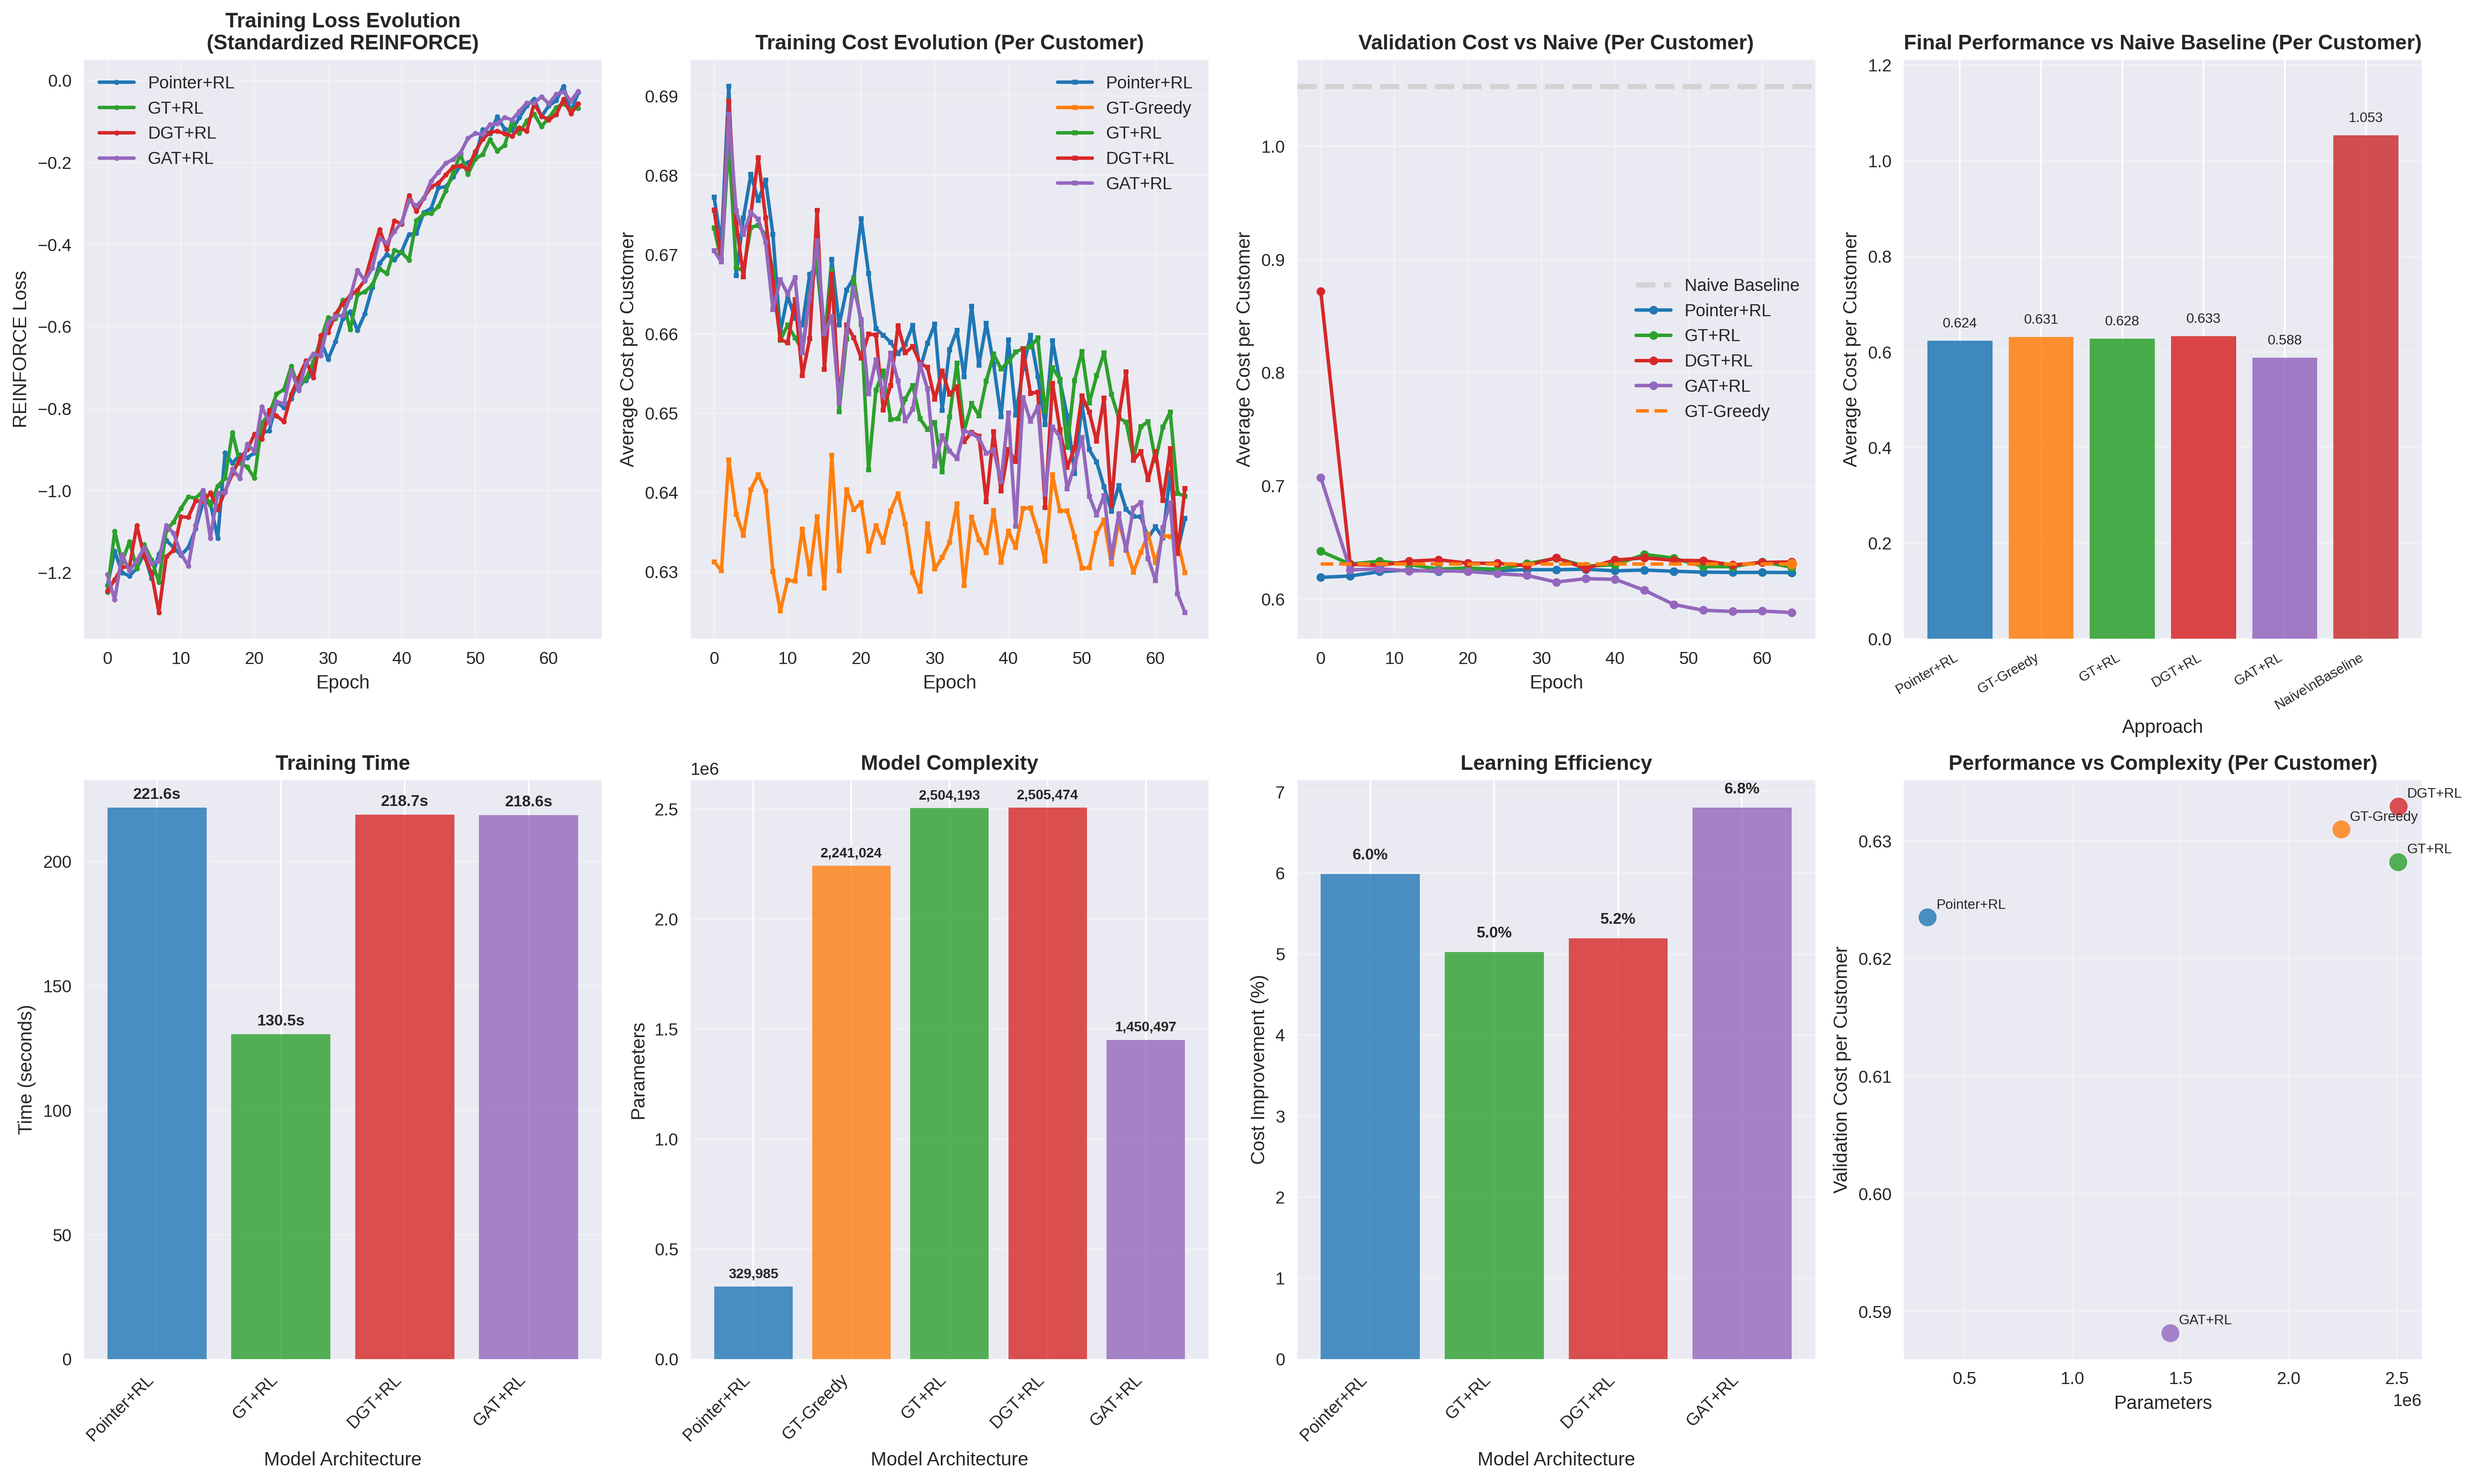
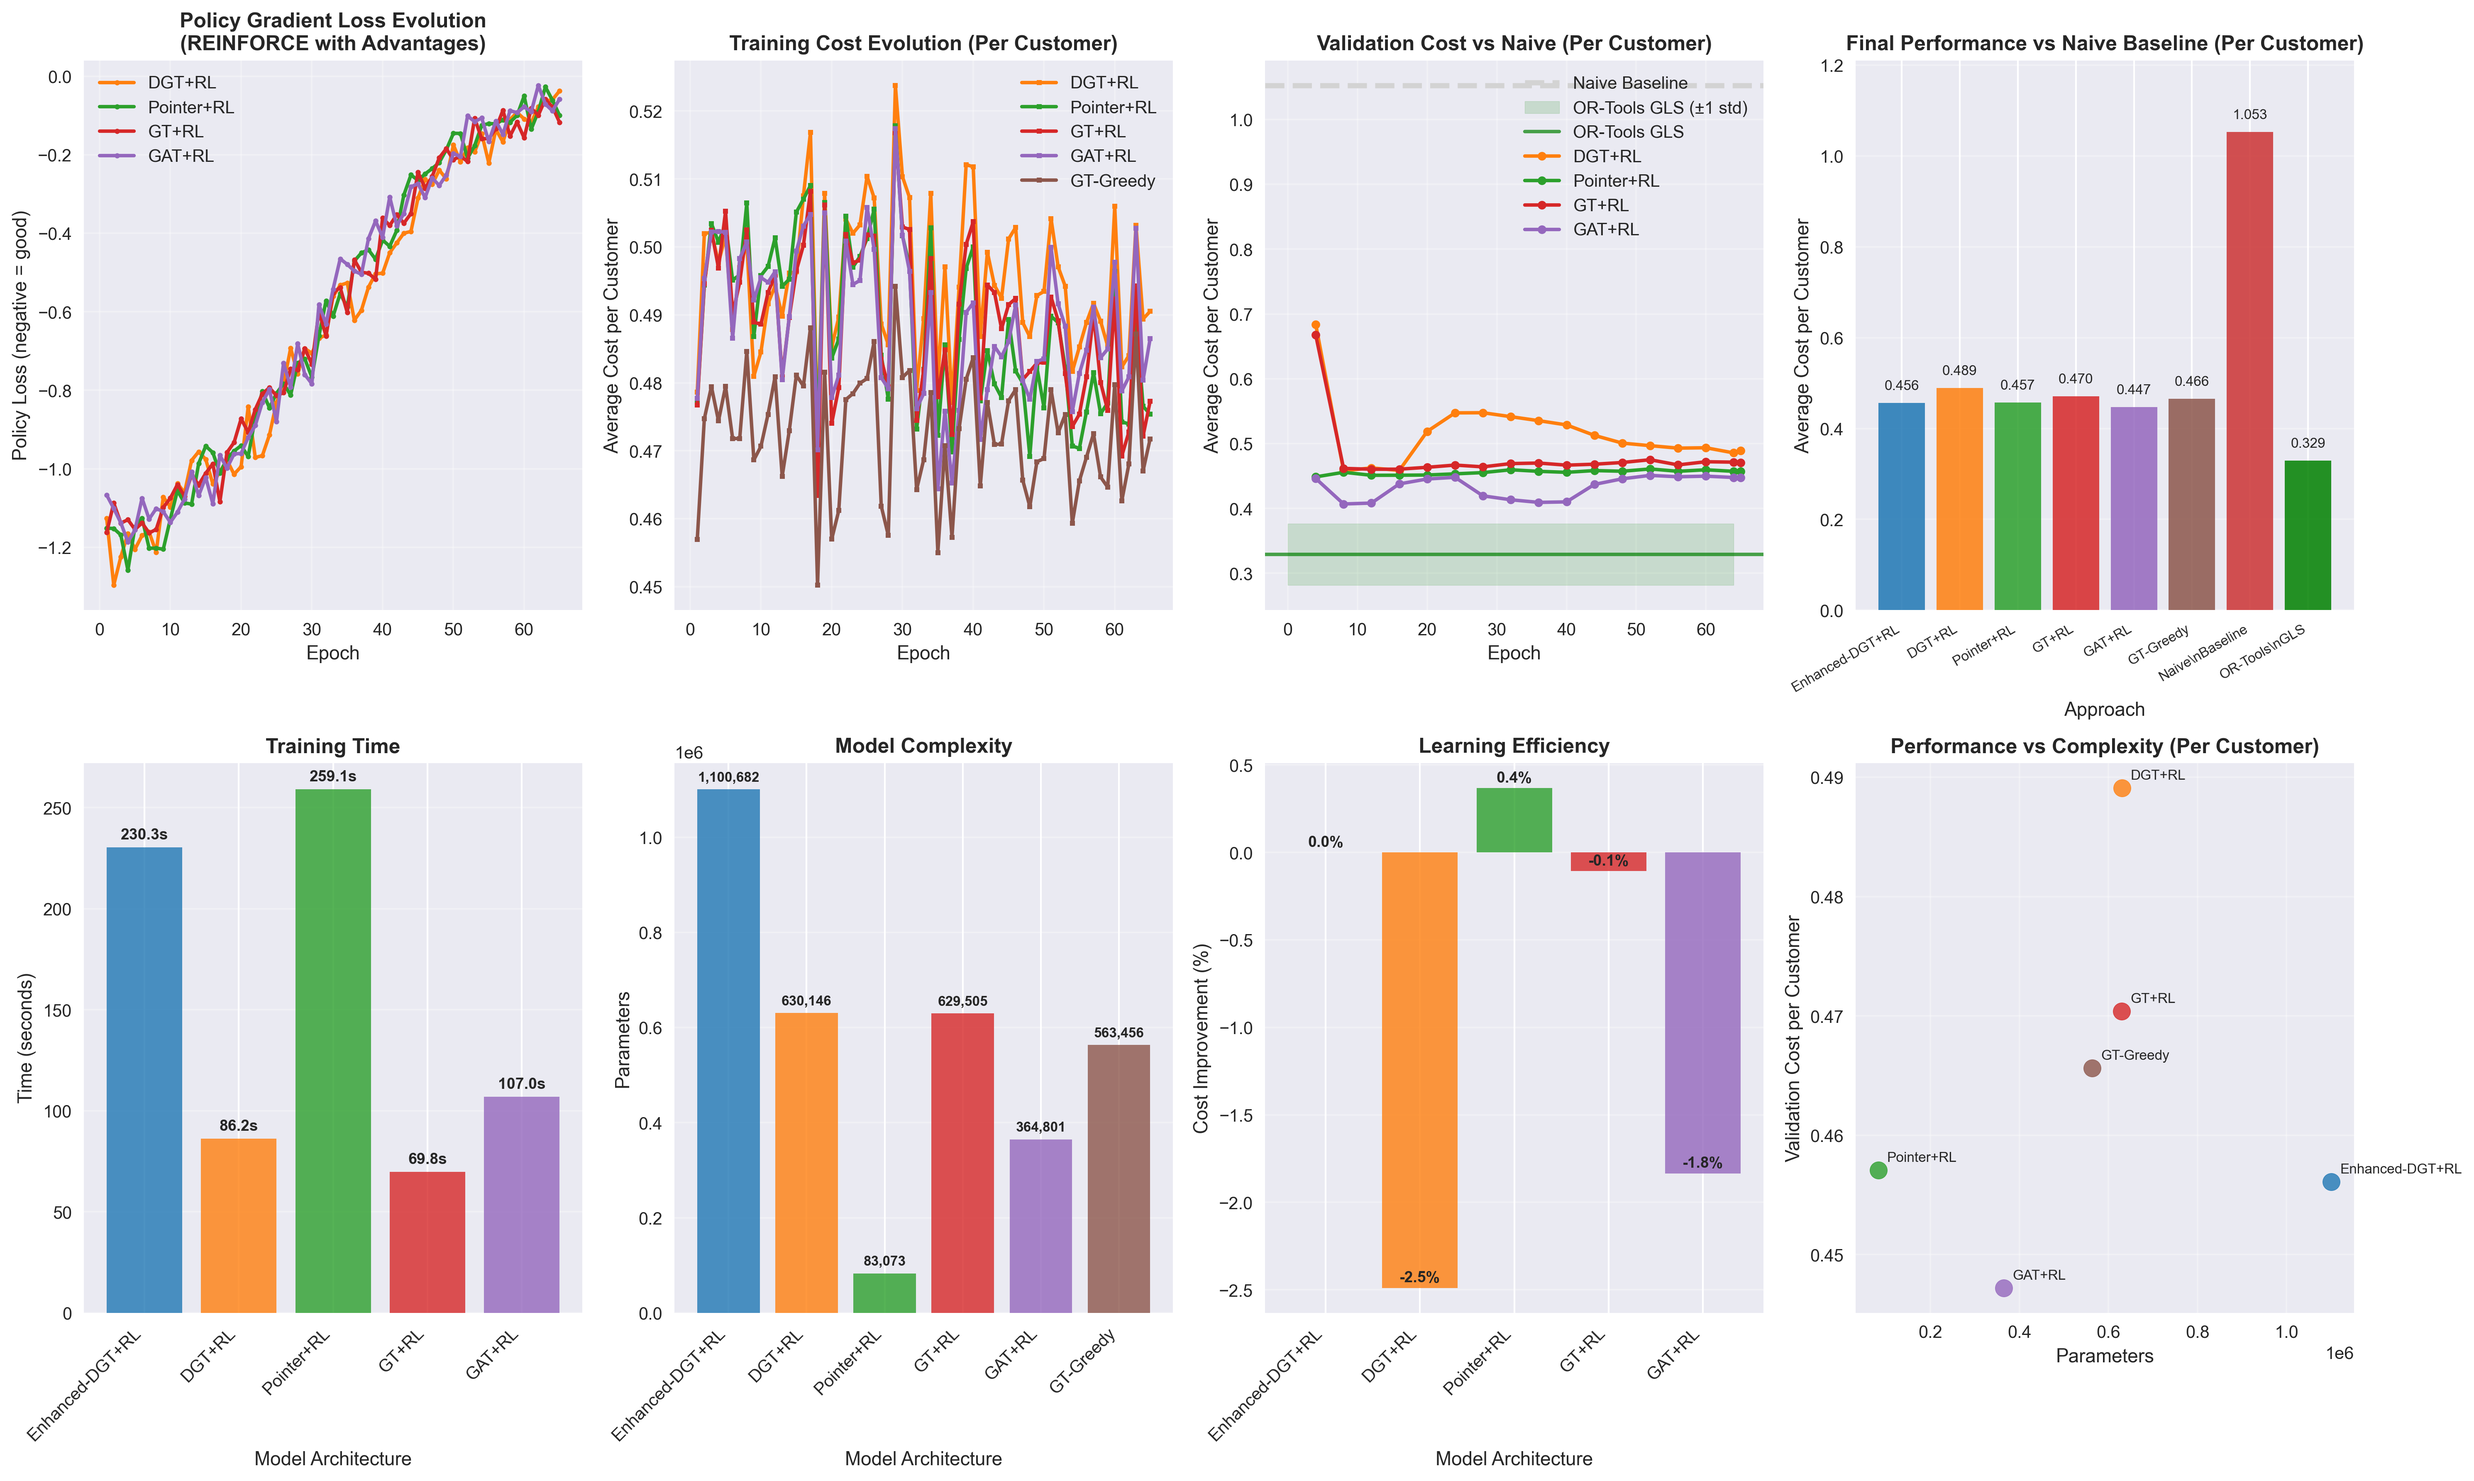
Fix panel 1 in comparative plots: correct terminology for policy gradient loss
- Remove incorrect negation of policy loss values (was double-negating already negative values)
- Update panel title to 'Policy Gradient Loss Evolution (REINFORCE with Advantages)'
- Update y-axis label to clarify that negative values indicate good performance
- The negative values shown are correct behavior for advantage-based policy gradient training
- This fixes the confusion about 'negative rewards' - they're actually policy gradient losses

diff --git a/make_comparative_plot.py b/make_comparative_plot.py
@@ -390,9 +390,9 @@ def create_comparison_plots(results, training_times, model_params, config, scale
 
     csv_series = {name: load_csv_series_for_model(name) for name in model_names}
 
-    # 1. Entropy or Loss evolution panel
+    # 1. Entropy or Policy Loss evolution panel
     ax1 = plt.subplot(2, 4, 1)
-    # Decide what to plot: prefer negative entropy if available, else fall back to REINFORCE loss
+    # Decide what to plot: prefer entropy if available, else fall back to policy gradient loss
     have_entropy = any(
         (series is not None) and ('train_entropy' in series) and any(pd.notna(v) for v in (series['train_entropy'] or []))
         for series in csv_series.values()
@@ -403,21 +403,22 @@ def create_comparison_plots(results, training_times, model_params, config, scale
             if series and series.get('train_entropy'):
                 ys_raw = series['train_entropy']
                 xs = [series['epochs'][i] for i, v in enumerate(ys_raw) if pd.notna(v)]
-                ys = [-(v) for v in ys_raw if pd.notna(v)]  # negative entropy to show decreasing trend
+                ys = [v for v in ys_raw if pd.notna(v)]  # plot entropy directly
                 if ys:
                     ax1.plot(xs, ys, label=model_name, linewidth=2, marker='o', markersize=3, color=color_map[model_name])
-        ax1.set_title('Negative Entropy Evolution (−entropy)', fontsize=12, fontweight='bold')
-        ax1.set_ylabel('− Entropy (per-epoch mean)')
+        ax1.set_title('Entropy Evolution', fontsize=12, fontweight='bold')
+        ax1.set_ylabel('Entropy (per-epoch mean)')
     else:
         for model_name in model_names:
             series = csv_series.get(model_name)
             if series and series['train_loss']:
                 xs = [series['epochs'][i] for i, v in enumerate(series['train_loss']) if pd.notna(v)]
+                # Plot the policy gradient loss directly (typically negative for REINFORCE with advantages)
                 ys = [v for v in series['train_loss'] if pd.notna(v)]
                 if ys:
                     ax1.plot(xs, ys, label=model_name, linewidth=2, marker='o', markersize=3, color=color_map[model_name])
-        ax1.set_title('Training Loss Evolution\n(Standardized REINFORCE)', fontsize=12, fontweight='bold')
-        ax1.set_ylabel('REINFORCE Loss')
+        ax1.set_title('Policy Gradient Loss Evolution\n(REINFORCE with Advantages)', fontsize=12, fontweight='bold')
+        ax1.set_ylabel('Policy Loss (negative = good)')
     ax1.set_xlabel('Epoch')
     _safe_legend(ax1)
     ax1.grid(True, alpha=0.3)
@@ -450,6 +451,18 @@ def create_comparison_plots(results, training_times, model_params, config, scale
     if exact_normalized is not None:
         ax3.axhline(y=exact_normalized, color='red', linewidth=3, linestyle=':', 
                    label=f'Exact Baseline ({exact_baseline_stats["num_solved"]} samples)', alpha=0.8)
+    
+    # Add OR-Tools GLS benchmark with transparent strap (confidence band)
+    ortools_gls_avg = 0.329127
+    ortools_gls_std = 0.047500
+    # Plot confidence band (±1 std)
+    ax3.fill_between([0, num_epochs], 
+                     ortools_gls_avg - ortools_gls_std, 
+                     ortools_gls_avg + ortools_gls_std,
+                     color='green', alpha=0.15, label='OR-Tools GLS (±1 std)')
+    # Plot middle line
+    ax3.axhline(y=ortools_gls_avg, color='green', linewidth=2, linestyle='-', 
+                label='OR-Tools GLS', alpha=0.7)
 
     # Plot model validation series; handle GT-Greedy specially (no training/validation curve)
     for model_name in model_names:
@@ -501,6 +514,11 @@ def create_comparison_plots(results, training_times, model_params, config, scale
         baseline_names.append(f'Exact Baseline\n({exact_baseline_stats["num_solved"]} samples)')
         baseline_costs.append(exact_normalized)
         baseline_colors.append((0.6, 0.0, 0.0))  # dark red for exact
+    
+    # Add OR-Tools GLS benchmark
+    baseline_names.append('OR-Tools GLS')
+    baseline_costs.append(0.329127)
+    baseline_colors.append((0.0, 0.5, 0.0))  # green for OR-Tools
     
     all_names = model_names + baseline_names
     all_costs_normalized = final_costs_normalized + baseline_costs
